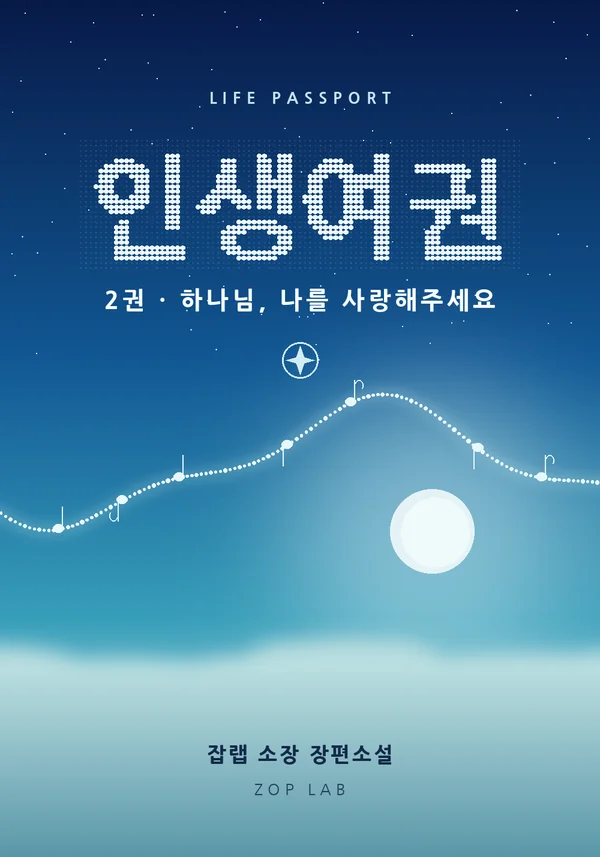
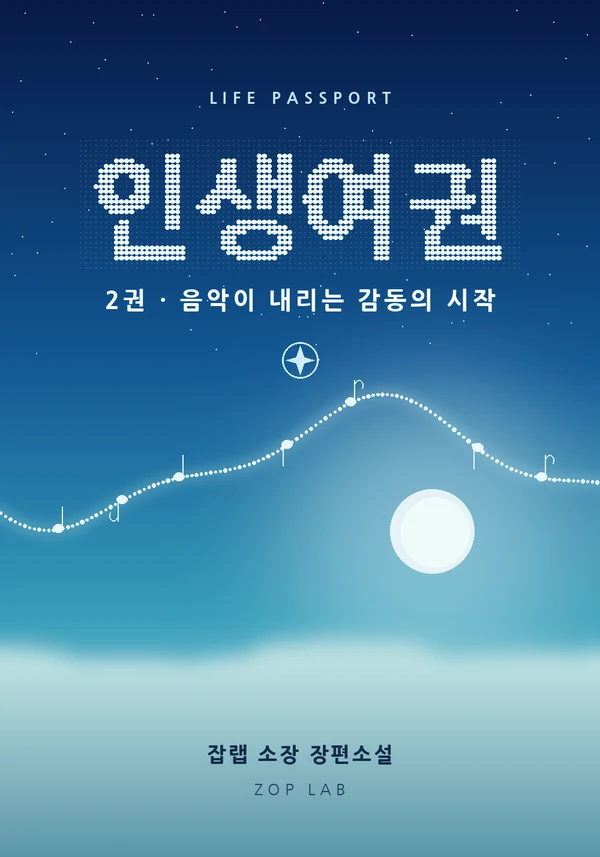
인생여권 1·2권 표지 교체: 새 제목 표지, 1권 하단 ZOP LAB

Changed region(s): [[0.3, 0.3337, 0.84, 0.3641], [0.18, 0.3337, 0.24, 0.3641]]

diff --git a/books/index.html b/books/index.html
@@ -166,4 +166,4 @@ footer{text-align:center;font-size:12px;color:#b39c6d;margin-top:30px;letter-spa
 .jb p{font-size:14px;line-height:1.55;color:#4a4f4a;margin:0 0 10px}
 .jb a.buy{display:inline-block;background:#1f2a24;color:#faf8f2;padding:8px 14px;border-radius:999px;font-size:14px;font-weight:700;text-decoration:none}
 .jb .no{font-size:13px;color:#8b8f8a}.jb .series{margin:0 0 28px}.jb .series-intro{margin:0 0 16px;line-height:1.7;color:#4a4f4a;font-size:15px}.jb dl.info{margin:0 0 10px;font-size:12px;line-height:1.55;color:#4a4f4a;display:grid;grid-template-columns:4.2em 1fr;gap:2px 8px}.jb dl.info dt{color:#8a6d33;font-weight:700;margin:0}.jb dl.info dd{margin:0}
-</style><main class="jb"><h1>잡랩북스</h1><p class="lead">잡랩(ZOP LAB)이 낸 책이에요.</p><section class="series" aria-label="인생여권"><p class="series-intro">인생여권은 서홍빈 작가가 자신이 쓴 시로 만든 소설입니다. 권마다 작가의 시 한 편이 대표시로 들어가 있습니다.</p><h3 class="root-title" style="font-size:18px;margin:22px 0 6px">인생여권의 뿌리, 2015년의 시</h3><p class="series-intro">이 소설의 근본 뿌리는 서홍빈 작가가 2015년에 쓴 시 여덟 편입니다. 작가는 이 시들을 한 권의 책으로 만들고 싶었고, 그 마음이 소설 인생여권이 되었습니다. 그리고 11년 뒤인 2026년, 세상에 공개했습니다.</p><p class="series-intro">인생여권은 짧은 시간에 쓴 소설이 아니라, 11년 동안 기획하고 구상해 완성한 소설입니다.</p><figure class="proof" style="margin:8px 0 24px;max-width:240px"><img src="/books/covers/poems2015.webp" alt="2015년 7월 3일 날짜가 찍힌 원작 시 8편 파일 목록" loading="lazy" style="width:100%;height:auto;border:1px solid #e2ddd0;border-radius:8px"><figcaption style="font-size:13px;color:#777;margin-top:6px">작가가 2015년에 쓴 원작 시 파일</figcaption></figure><ul><li><img src="/books/covers/insaeng_vol1.webp" alt="인생여권 1권 「바람」 표지" loading="lazy"><div><span class="tag">장편소설</span><h2>인생여권 1권 「바람」</h2><p>창고에서 말없이 일하던 '나'가 바람에 이끌려 잠들지 않는 출국장에 닿고, 빈 여권 한 권을 받아 드는 첫 여행.</p><dl class="info"><dt>제목</dt><dd>인생여권 1권 「바람」</dd><dt>저자</dt><dd>서홍빈</dd><dt>출판사</dt><dd>잡랩북스</dd><dt>공개일</dt><dd>2026-11-15</dd><dt>쪽수</dt><dd>467쪽</dd><dt>대표시</dt><dd>「바람」</dd><dt>원작 시</dt><dd>「바람」 (2015)</dd></dl><a class="buy" href="https://www.wadiz.io/web/campaign/detail/431394" target="_blank" rel="noopener">와디즈에서 지금 펀딩 중 · 후원하기 →</a></div></li><li><img src="/books/covers/insaeng_vol2.webp" alt="인생여권 2권 「음악이 내리는 감동의 시작」 표지" loading="lazy"><div><span class="tag">장편소설</span><h2>인생여권 2권 「음악이 내리는 감동의 시작」</h2><p>노을이 이륙하는 하늘 나라 카엘리라에서 '낭만'을 찾는 여행.</p><dl class="info"><dt>제목</dt><dd>인생여권 2권 「음악이 내리는 감동의 시작」</dd><dt>저자</dt><dd>서홍빈</dd><dt>출판사</dt><dd>잡랩북스</dd><dt>공개일</dt><dd>2026-11-15</dd><dt>쪽수</dt><dd>467쪽</dd><dt>대표시</dt><dd>「음악이 내리는 감동의 시작」</dd><dt>원작 시</dt><dd>「음악이 내리는 감동의 시작」 (2015)</dd></dl><span class="no">판매 링크 준비 중</span></div></li><li><img src="/books/covers/insaeng_vol3.webp" alt="인생여권 3권 「인생처럼 쓰라리다」 표지" loading="lazy"><div><span class="tag">장편소설</span><h2>인생여권 3권 「인생처럼 쓰라리다」</h2><p>재가 내리는 쇠 계단의 나라 아르벤티스에서, 오르기만 하는 사람들 틈에 '내 걸음'이 무엇인지 묻는 여행.</p><dl class="info"><dt>제목</dt><dd>인생여권 3권 「인생처럼 쓰라리다」</dd><dt>저자</dt><dd>서홍빈</dd><dt>출판사</dt><dd>잡랩북스</dd><dt>공개일</dt><dd>2026-11-15</dd><dt>쪽수</dt><dd>471쪽</dd><dt>대표시</dt><dd>「인생처럼 쓰라리다」</dd><dt>원작 시</dt><dd>「인생처럼 쓰라리다」 (2015)</dd></dl><span class="no">판매 링크 준비 중</span></div></li><li><img src="/books/covers/insaeng_vol4.webp" alt="인생여권 4권 「나만을 사랑한 그대」 표지" loading="lazy"><div><span class="tag">장편소설</span><h2>인생여권 4권 「나만을 사랑한 그대」</h2><p>귤빛 골짜기와 등불의 나라 에스바린에서, 밥 한 그릇과 작은 불로 '행복'을 다시 배우는 여행.</p><dl class="info"><dt>제목</dt><dd>인생여권 4권 「나만을 사랑한 그대」</dd><dt>저자</dt><dd>서홍빈</dd><dt>출판사</dt><dd>잡랩북스</dd><dt>공개일</dt><dd>2026-11-15</dd><dt>쪽수</dt><dd>471쪽</dd><dt>대표시</dt><dd>「나만을 사랑한 그대」</dd><dt>원작 시</dt><dd>「나만을 사랑한 그대」 (2015)</dd></dl><span class="no">판매 링크 준비 중</span></div></li><li><img src="/books/covers/insaeng_vol5.webp" alt="인생여권 5권 「책을 읽는다는 것은」 표지" loading="lazy"><div><span class="tag">장편소설</span><h2>인생여권 5권 「책을 읽는다는 것은」</h2><p>모든 것이 적히는 안개 항구 오네이라에서, 고친 자리와 비워 둔 자리의 뜻을 찾는 기록의 여행.</p><dl class="info"><dt>제목</dt><dd>인생여권 5권 「책을 읽는다는 것은」</dd><dt>저자</dt><dd>서홍빈</dd><dt>출판사</dt><dd>잡랩북스</dd><dt>공개일</dt><dd>2026-11-15</dd><dt>쪽수</dt><dd>469쪽</dd><dt>대표시</dt><dd>「책을 읽는다는 것은」</dd><dt>원작 시</dt><dd>「책을 읽는다는 것은」 (2015)</dd></dl><span class="no">판매 링크 준비 중</span></div></li><li><img src="/books/covers/insaeng_vol6.webp" alt="인생여권 6권 「뱃마음 어부들」 표지" loading="lazy"><div><span class="tag">장편소설</span><h2>인생여권 6권 「뱃마음 어부들」</h2><p>묶인 배들의 바다 도시 네바리스에서, 길을 남기지 않는 바다를 뱃사람들과 건너는 항해의 여행.</p><dl class="info"><dt>제목</dt><dd>인생여권 6권 「뱃마음 어부들」</dd><dt>저자</dt><dd>서홍빈</dd><dt>출판사</dt><dd>잡랩북스</dd><dt>공개일</dt><dd>2026-11-15</dd><dt>쪽수</dt><dd>473쪽</dd><dt>대표시</dt><dd>「뱃마음 어부들」</dd><dt>원작 시</dt><dd>「뱃마음 어부들」 (2015)</dd></dl><span class="no">판매 링크 준비 중</span></div></li><li><img src="/books/covers/insaeng_vol7.webp" alt="인생여권 7권 「빗소리가 들리면」 표지" loading="lazy"><div><span class="tag">장편소설</span><h2>인생여권 7권 「빗소리가 들리면」</h2><p>무엇이든 묻기만 하는 나라 쿼리엘에서, 긴 장마와 첫눈을 지나 여권의 마지막 칸을 향해 걸어가는 여행.</p><dl class="info"><dt>제목</dt><dd>인생여권 7권 「빗소리가 들리면」</dd><dt>저자</dt><dd>서홍빈</dd><dt>출판사</dt><dd>잡랩북스</dd><dt>공개일</dt><dd>2026-11-15</dd><dt>쪽수</dt><dd>472쪽</dd><dt>대표시</dt><dd>「빗소리가 들리면」</dd><dt>원작 시</dt><dd>「빗소리가 들리면」 (2015)</dd></dl><span class="no">판매 링크 준비 중</span></div></li></ul></section><ul><li><img src="/books/covers/gidarim.webp" alt="시집 『기다림』 표지" loading="lazy"><div><span class="tag">시집</span><h2>『기다림』</h2><p>서홍빈 작가의 시집이에요.</p><dl class="info"><dt>제목</dt><dd>『기다림』</dd><dt>저자</dt><dd>서홍빈</dd><dt>출판사</dt><dd>잡랩북스</dd><dt>종류</dt><dd>시집</dd><dt>처음 쓴 날</dt><dd>2015년 7월 3일</dd><dt>공개일</dt><dd>2026-11-15</dd></dl><span class="no">비매품</span></div></li><li><img src="/books/covers/guide4.webp" alt="ZOP LAB 부업 가이드 4권 세트 표지" loading="lazy"><div><span class="tag">세트</span><h2>ZOP LAB 부업 가이드 4권 세트</h2><p>시작, 판매, 콘텐츠, 반복 줄이기 순서로 정리한 부업 방법 가이드 4권이에요.</p><a class="buy" href="https://www.groble.im/products/6HhmWn" target="_blank" rel="noopener">구매하기 →</a></div></li><li><img src="/books/covers/dongumeong.webp" alt="몸이 버티는 동안, 돈 구멍을 만든다 표지" loading="lazy"><div><span class="tag">단권</span><h2>몸이 버티는 동안, 돈 구멍을 만든다</h2><p>지금 일과 체력, 시간 안에서 시작할 수 있는 작은 부수입 구조를 정하고 숫자로 기록하는 방법이에요.</p><span class="no">판매 링크 준비 중</span></div></li><li><img src="/books/covers/no001.png" alt="나를 알아야 하는 이유 표지" loading="lazy"><div><span class="tag">레이블 No.001</span><h2>나를 알아야 하는 이유</h2><p>「내 인생 한 권」을 시작하기 전에 읽는 본질서예요.</p><span class="no">비매품</span></div></li><li><img src="/books/covers/no002.png" alt="내 얘기가 왜 책이 돼야 하냐면 표지" loading="lazy"><div><span class="tag">레이블 No.002</span><h2>내 얘기가 왜 책이 돼야 하냐면</h2><p>「내 인생 한 권」 첫 만남에서 읽는 안내서예요.</p><span class="no">비매품</span></div></li></ul></main><footer>ZOP LAB · 잡랩북스</footer></body></html>
+</style><main class="jb"><h1>잡랩북스</h1><p class="lead">잡랩(ZOP LAB)이 낸 책이에요.</p><section class="series" aria-label="인생여권"><p class="series-intro">인생여권은 서홍빈 작가가 자신이 쓴 시로 만든 소설입니다. 권마다 작가의 시 한 편이 대표시로 들어가 있습니다.</p><h3 class="root-title" style="font-size:18px;margin:22px 0 6px">인생여권의 뿌리, 2015년의 시</h3><p class="series-intro">이 소설의 근본 뿌리는 서홍빈 작가가 2015년에 쓴 시 여덟 편입니다. 작가는 이 시들을 한 권의 책으로 만들고 싶었고, 그 마음이 소설 인생여권이 되었습니다. 그리고 11년 뒤인 2026년, 세상에 공개했습니다.</p><p class="series-intro">인생여권은 짧은 시간에 쓴 소설이 아니라, 11년 동안 기획하고 구상해 완성한 소설입니다.</p><figure class="proof" style="margin:8px 0 24px;max-width:240px"><img src="/books/covers/poems2015.webp" alt="2015년 7월 3일 날짜가 찍힌 원작 시 8편 파일 목록" loading="lazy" style="width:100%;height:auto;border:1px solid #e2ddd0;border-radius:8px"><figcaption style="font-size:13px;color:#777;margin-top:6px">작가가 2015년에 쓴 원작 시 파일</figcaption></figure><ul><li><img src="/books/covers/insaeng_vol1.webp?v=1129" alt="인생여권 1권 「바람」 표지" loading="lazy"><div><span class="tag">장편소설</span><h2>인생여권 1권 「바람」</h2><p>창고에서 말없이 일하던 '나'가 바람에 이끌려 잠들지 않는 출국장에 닿고, 빈 여권 한 권을 받아 드는 첫 여행.</p><dl class="info"><dt>제목</dt><dd>인생여권 1권 「바람」</dd><dt>저자</dt><dd>서홍빈</dd><dt>출판사</dt><dd>잡랩북스</dd><dt>공개일</dt><dd>2026-11-15</dd><dt>쪽수</dt><dd>467쪽</dd><dt>대표시</dt><dd>「바람」</dd><dt>원작 시</dt><dd>「바람」 (2015)</dd></dl><a class="buy" href="https://www.wadiz.io/web/campaign/detail/431394" target="_blank" rel="noopener">와디즈에서 지금 펀딩 중 · 후원하기 →</a></div></li><li><img src="/books/covers/insaeng_vol2.webp?v=1129" alt="인생여권 2권 「음악이 내리는 감동의 시작」 표지" loading="lazy"><div><span class="tag">장편소설</span><h2>인생여권 2권 「음악이 내리는 감동의 시작」</h2><p>노을이 이륙하는 하늘 나라 카엘리라에서 '낭만'을 찾는 여행.</p><dl class="info"><dt>제목</dt><dd>인생여권 2권 「음악이 내리는 감동의 시작」</dd><dt>저자</dt><dd>서홍빈</dd><dt>출판사</dt><dd>잡랩북스</dd><dt>공개일</dt><dd>2026-11-15</dd><dt>쪽수</dt><dd>467쪽</dd><dt>대표시</dt><dd>「음악이 내리는 감동의 시작」</dd><dt>원작 시</dt><dd>「음악이 내리는 감동의 시작」 (2015)</dd></dl><span class="no">판매 링크 준비 중</span></div></li><li><img src="/books/covers/insaeng_vol3.webp" alt="인생여권 3권 「인생처럼 쓰라리다」 표지" loading="lazy"><div><span class="tag">장편소설</span><h2>인생여권 3권 「인생처럼 쓰라리다」</h2><p>재가 내리는 쇠 계단의 나라 아르벤티스에서, 오르기만 하는 사람들 틈에 '내 걸음'이 무엇인지 묻는 여행.</p><dl class="info"><dt>제목</dt><dd>인생여권 3권 「인생처럼 쓰라리다」</dd><dt>저자</dt><dd>서홍빈</dd><dt>출판사</dt><dd>잡랩북스</dd><dt>공개일</dt><dd>2026-11-15</dd><dt>쪽수</dt><dd>471쪽</dd><dt>대표시</dt><dd>「인생처럼 쓰라리다」</dd><dt>원작 시</dt><dd>「인생처럼 쓰라리다」 (2015)</dd></dl><span class="no">판매 링크 준비 중</span></div></li><li><img src="/books/covers/insaeng_vol4.webp" alt="인생여권 4권 「나만을 사랑한 그대」 표지" loading="lazy"><div><span class="tag">장편소설</span><h2>인생여권 4권 「나만을 사랑한 그대」</h2><p>귤빛 골짜기와 등불의 나라 에스바린에서, 밥 한 그릇과 작은 불로 '행복'을 다시 배우는 여행.</p><dl class="info"><dt>제목</dt><dd>인생여권 4권 「나만을 사랑한 그대」</dd><dt>저자</dt><dd>서홍빈</dd><dt>출판사</dt><dd>잡랩북스</dd><dt>공개일</dt><dd>2026-11-15</dd><dt>쪽수</dt><dd>471쪽</dd><dt>대표시</dt><dd>「나만을 사랑한 그대」</dd><dt>원작 시</dt><dd>「나만을 사랑한 그대」 (2015)</dd></dl><span class="no">판매 링크 준비 중</span></div></li><li><img src="/books/covers/insaeng_vol5.webp" alt="인생여권 5권 「책을 읽는다는 것은」 표지" loading="lazy"><div><span class="tag">장편소설</span><h2>인생여권 5권 「책을 읽는다는 것은」</h2><p>모든 것이 적히는 안개 항구 오네이라에서, 고친 자리와 비워 둔 자리의 뜻을 찾는 기록의 여행.</p><dl class="info"><dt>제목</dt><dd>인생여권 5권 「책을 읽는다는 것은」</dd><dt>저자</dt><dd>서홍빈</dd><dt>출판사</dt><dd>잡랩북스</dd><dt>공개일</dt><dd>2026-11-15</dd><dt>쪽수</dt><dd>469쪽</dd><dt>대표시</dt><dd>「책을 읽는다는 것은」</dd><dt>원작 시</dt><dd>「책을 읽는다는 것은」 (2015)</dd></dl><span class="no">판매 링크 준비 중</span></div></li><li><img src="/books/covers/insaeng_vol6.webp" alt="인생여권 6권 「뱃마음 어부들」 표지" loading="lazy"><div><span class="tag">장편소설</span><h2>인생여권 6권 「뱃마음 어부들」</h2><p>묶인 배들의 바다 도시 네바리스에서, 길을 남기지 않는 바다를 뱃사람들과 건너는 항해의 여행.</p><dl class="info"><dt>제목</dt><dd>인생여권 6권 「뱃마음 어부들」</dd><dt>저자</dt><dd>서홍빈</dd><dt>출판사</dt><dd>잡랩북스</dd><dt>공개일</dt><dd>2026-11-15</dd><dt>쪽수</dt><dd>473쪽</dd><dt>대표시</dt><dd>「뱃마음 어부들」</dd><dt>원작 시</dt><dd>「뱃마음 어부들」 (2015)</dd></dl><span class="no">판매 링크 준비 중</span></div></li><li><img src="/books/covers/insaeng_vol7.webp" alt="인생여권 7권 「빗소리가 들리면」 표지" loading="lazy"><div><span class="tag">장편소설</span><h2>인생여권 7권 「빗소리가 들리면」</h2><p>무엇이든 묻기만 하는 나라 쿼리엘에서, 긴 장마와 첫눈을 지나 여권의 마지막 칸을 향해 걸어가는 여행.</p><dl class="info"><dt>제목</dt><dd>인생여권 7권 「빗소리가 들리면」</dd><dt>저자</dt><dd>서홍빈</dd><dt>출판사</dt><dd>잡랩북스</dd><dt>공개일</dt><dd>2026-11-15</dd><dt>쪽수</dt><dd>472쪽</dd><dt>대표시</dt><dd>「빗소리가 들리면」</dd><dt>원작 시</dt><dd>「빗소리가 들리면」 (2015)</dd></dl><span class="no">판매 링크 준비 중</span></div></li></ul></section><ul><li><img src="/books/covers/gidarim.webp" alt="시집 『기다림』 표지" loading="lazy"><div><span class="tag">시집</span><h2>『기다림』</h2><p>서홍빈 작가의 시집이에요.</p><dl class="info"><dt>제목</dt><dd>『기다림』</dd><dt>저자</dt><dd>서홍빈</dd><dt>출판사</dt><dd>잡랩북스</dd><dt>종류</dt><dd>시집</dd><dt>처음 쓴 날</dt><dd>2015년 7월 3일</dd><dt>공개일</dt><dd>2026-11-15</dd></dl><span class="no">비매품</span></div></li><li><img src="/books/covers/guide4.webp" alt="ZOP LAB 부업 가이드 4권 세트 표지" loading="lazy"><div><span class="tag">세트</span><h2>ZOP LAB 부업 가이드 4권 세트</h2><p>시작, 판매, 콘텐츠, 반복 줄이기 순서로 정리한 부업 방법 가이드 4권이에요.</p><a class="buy" href="https://www.groble.im/products/6HhmWn" target="_blank" rel="noopener">구매하기 →</a></div></li><li><img src="/books/covers/dongumeong.webp" alt="몸이 버티는 동안, 돈 구멍을 만든다 표지" loading="lazy"><div><span class="tag">단권</span><h2>몸이 버티는 동안, 돈 구멍을 만든다</h2><p>지금 일과 체력, 시간 안에서 시작할 수 있는 작은 부수입 구조를 정하고 숫자로 기록하는 방법이에요.</p><span class="no">판매 링크 준비 중</span></div></li><li><img src="/books/covers/no001.png" alt="나를 알아야 하는 이유 표지" loading="lazy"><div><span class="tag">레이블 No.001</span><h2>나를 알아야 하는 이유</h2><p>「내 인생 한 권」을 시작하기 전에 읽는 본질서예요.</p><span class="no">비매품</span></div></li><li><img src="/books/covers/no002.png" alt="내 얘기가 왜 책이 돼야 하냐면 표지" loading="lazy"><div><span class="tag">레이블 No.002</span><h2>내 얘기가 왜 책이 돼야 하냐면</h2><p>「내 인생 한 권」 첫 만남에서 읽는 안내서예요.</p><span class="no">비매품</span></div></li></ul></main><footer>ZOP LAB · 잡랩북스</footer></body></html>
